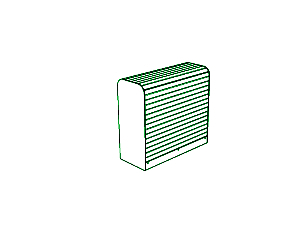
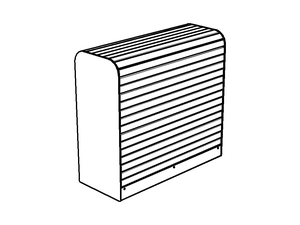
Testa bredare modellrutor och ny LGR389-ikon på GRADUA.
Modellbilden för LGR389 byts mot den 3D-ritning som skickats. Rutnätet går
från sex till fyra kolumner, samma bildbredd som på STREETPARK Gradua.

Changed region(s): [[0.24, 0.0933, 0.78, 0.9022], [0.27, 0.8089, 0.36, 0.8711]]

diff --git a/design-concepts/src/components/ProductView.tsx b/design-concepts/src/components/ProductView.tsx
@@ -1212,13 +1212,13 @@ function StreetparkTypePicker({
   return (
     <fieldset>
       <legend className="text-sm font-medium">{legend}</legend>
-      <div className="mt-2 grid grid-cols-4 gap-2 sm:grid-cols-5 md:grid-cols-6">
+      <div className="mt-2 grid grid-cols-3 gap-2 sm:grid-cols-4">
         {sizes.map((s) => {
           const active = selectedName === s.name || selectedName === s.sku
           return (
             <label
               key={s.sku ?? s.name}
-              className={`flex cursor-pointer flex-col items-center border-2 bg-sheet px-1 py-2 text-center ${
+              className={`flex cursor-pointer flex-col items-center border-2 bg-sheet px-1.5 py-2 text-center ${
                 active ? 'border-sage bg-paper' : 'border-line'
               }`}
             >
@@ -1229,7 +1229,7 @@ function StreetparkTypePicker({
                 checked={active}
                 onChange={() => onSelect(s.name)}
               />
-              <span className="flex aspect-[4/3] w-full items-center justify-center bg-paper">
+              <span className="flex aspect-[150/113] w-full items-center justify-center bg-paper">
                 {s.icon ? (
                   <img
                     src={s.icon}
